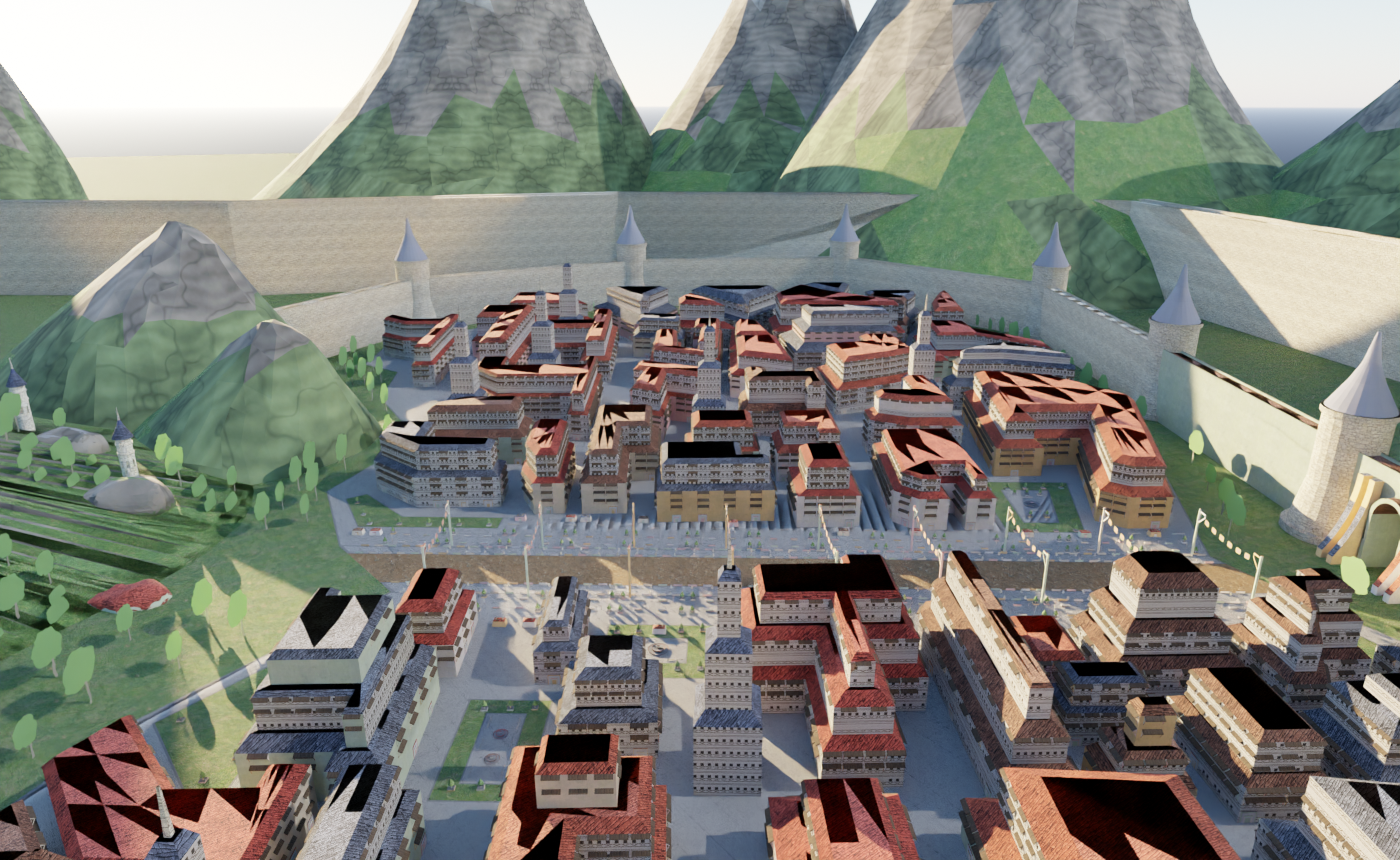
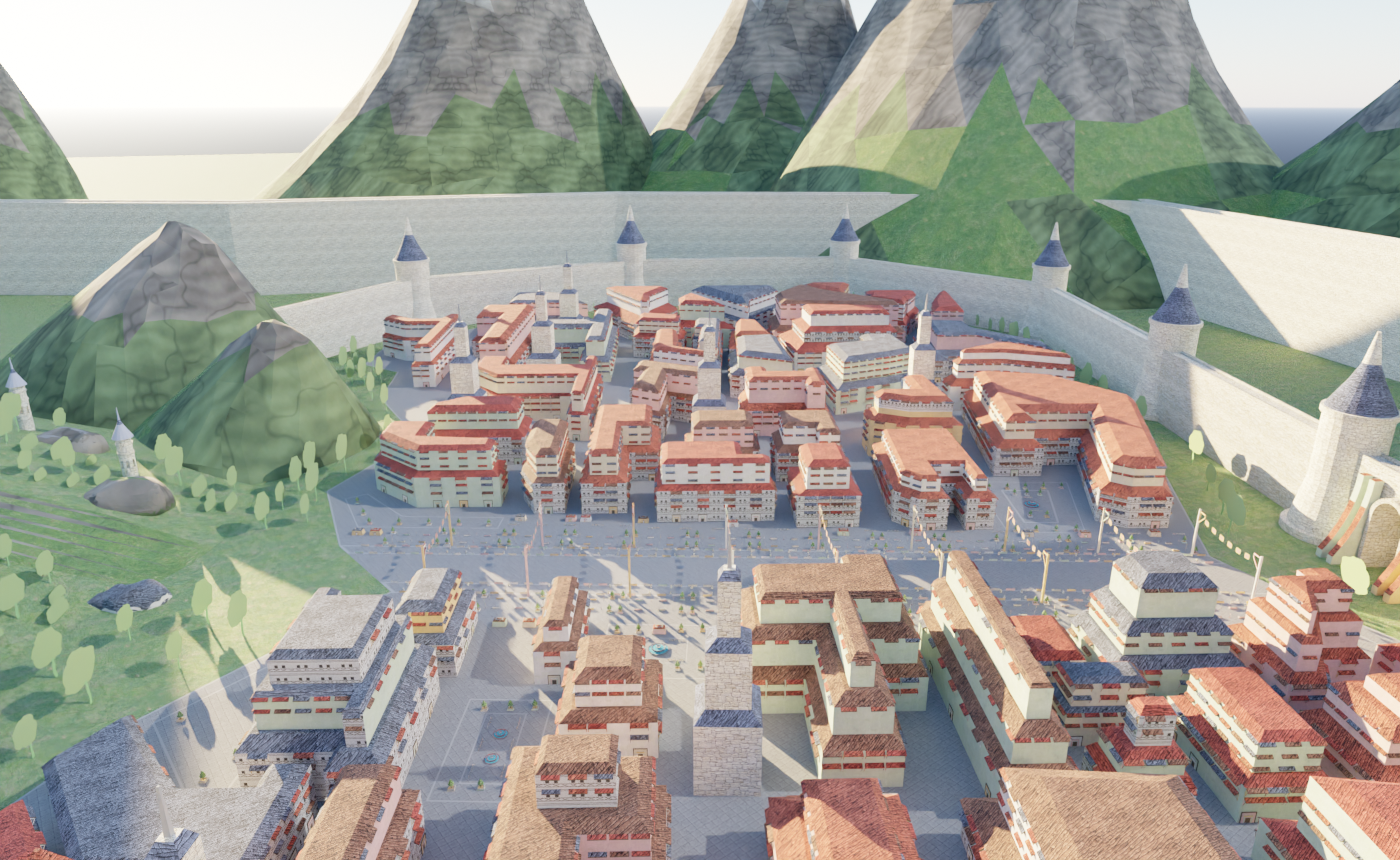
맵: 검은 지붕 수정 — 같은 자리에 두 벌 놓인 부품의 겹친 면 제거(약 23만 장), 평면 나무는 양면 유지
Claude-Session: https://claude.ai/code/session_016KYYKotjwGKutMnKopxMmp

diff --git a/moomin-action/blender/build_map.py b/moomin-action/blender/build_map.py
@@ -215,9 +215,9 @@ write_report()
 
 # ── 4. 합치기·단위·위치 ───────────────────────────────
 # bpy.ops.object.join 은 물체 2만 개에서 제곱으로 느려져서, 정점·면·UV·재질 번호를 numpy 로 모아 새 메시를 직접 만든다.
-GAME = bpy.data.scenes.new("Game"); S = args.scale
+GAME = bpy.data.scenes.new("Game"); S = args.scale; DUP = {}
 Tm = np.array(Matrix.Diagonal((S, S, S, 1)) @ Matrix.Translation((-CENTER[0], -CENTER[1], -GROUND_Z)))
-def merge(objs, name, with_mats=True):
+def merge(objs, name, with_mats=True, double_sided=False):
     cos, lvs, lts, uvs, fms = [], [], [], [], []; voff = 0
     for o in objs:
         me = o.data; nv, nl, npy = len(me.vertices), len(me.loops), len(me.polygons)
@@ -232,6 +232,20 @@ def merge(objs, name, with_mats=True):
             ls = np.concatenate([[0], np.cumsum(lt)[:-1]]); idx = np.concatenate([np.arange(st + t - 1, st - 1, -1) for st, t in zip(ls, lt)]); lv, uv = lv[idx], uv[idx]
         cos.append(co); lvs.append(lv + voff); lts.append(lt); uvs.append(uv); fms.append(fm); voff += nv
     co, lv, lt, uv, fm = np.concatenate(cos), np.concatenate(lvs), np.concatenate(lts), np.concatenate(uvs), np.concatenate(fms)
+    # 겹친 면 제거: 원본에 같은 부품이 같은 자리에 두 벌씩 놓인 곳이 있어(그룹#115·#117 등) 같은 위치의 면이 두 장 →
+    # 렌더러에서는 서로 그림자를 드리워 검게, Unity 에서는 깜빡이는 줄무늬(z-fighting)로 보임. 꼭짓점 위치(5mm 단위)가 같은 면은 하나만 남김.
+    ls = np.concatenate([[0], np.cumsum(lt)[:-1]]); q = np.round(co / 0.005).astype(np.int64)
+    seen = set(); keep = np.ones(len(lt), bool)
+    for i in range(len(lt)):
+        key = tuple(sorted(map(tuple, q[lv[ls[i]:ls[i] + lt[i]]].tolist())))
+        if key in seen: keep[i] = False
+        else: seen.add(key)
+    if not keep.all():
+        lkeep = np.repeat(keep, lt); lv, uv, lt, fm = lv[lkeep], uv[lkeep], lt[keep], fm[keep]
+    DUP[name] = int((~keep).sum())
+    if double_sided:   # 평면 나무: 겹친 앞뒷면을 지웠으니 뒤집은 사본을 붙여 확실한 양면으로(Unity 는 뒷면을 그리지 않음)
+        ls = np.concatenate([[0], np.cumsum(lt)[:-1]]); idx = np.concatenate([np.arange(st + t - 1, st - 1, -1) for st, t in zip(ls, lt)])
+        lv, uv, lt, fm = np.concatenate([lv, lv[idx]]), np.concatenate([uv, uv[idx]]), np.concatenate([lt, lt]), np.concatenate([fm, fm])
     me = bpy.data.meshes.new(name); me.vertices.add(len(co)); me.vertices.foreach_set("co", co.ravel())
     me.loops.add(len(lv)); me.loops.foreach_set("vertex_index", lv); me.polygons.add(len(lt)); me.polygons.foreach_set("loop_start", np.concatenate([[0], np.cumsum(lt)[:-1]]).astype(np.int32))
     me.update(calc_edges=True); uvl = me.uv_layers.new(name="UVMap"); uvl.data.foreach_set("uv", uv.ravel())
@@ -242,9 +256,9 @@ def merge(objs, name, with_mats=True):
 fol = [o for o in meshes if cats.get(o.name) == "foliage"]; rest = [o for o in meshes if cats.get(o.name) != "foliage"]
 def diag(o):
     ws = [o.matrix_world @ Vector(c) for c in o.bound_box]; return (Vector((max(w.x for w in ws), max(w.y for w in ws), max(w.z for w in ws))) - Vector((min(w.x for w in ws), min(w.y for w in ws), min(w.z for w in ws)))).length
-city = merge(rest, "City"); foliage = merge(fol, "Foliage") if fol else None
+city = merge(rest, "City"); foliage = merge(fol, "Foliage", double_sided=True) if fol else None
 collision = merge([o for o in rest if diag(o) >= 30], "City_Collision", with_mats=False)   # 작은 장식(대각 30단위 미만)·나무 제외
-log("합침", len(city.data.polygons), "면 / 나무", len(foliage.data.polygons) if foliage else 0, "/ 충돌", len(collision.data.polygons))
+log("합침", len(city.data.polygons), "면 / 나무", len(foliage.data.polygons) if foliage else 0, "/ 충돌", len(collision.data.polygons), "/ 겹친 면 제거", DUP)
 
 # ── 5. 상자 투영 UV(월드 좌표, 미터 기준 반복 크기) ─────
 me = city.data

diff --git a/moomin-action/CLAUDE.md b/moomin-action/CLAUDE.md
@@ -44,5 +44,7 @@ Blender(bpy 5.3, headless) → FBX/GLB → Unity(C#) 파이프라인. 민미로 
 ## 맵(blender/build_map.py)
 - 원본 GLB(SketchUp→openskp→Blender): 맨 위 계층 + 메시 공유 = 부품 원본 → 삭제. 1단위 = 0.14m, 바닥 z=-51 → 0.
 - 순서: 분석(형태: 수직 벽 비율·축 정렬 비율로 산/언덕 ↔ 건물) → 질감(면 종류·텍스처·상자 투영 UV) → 채색(산 높이별, 집마다 벽 5색·지붕 4색, 성은 석재+슬레이트).
+- 겹친 면: 원본에 같은 부품이 같은 자리에 두 벌(예: 그룹#115·#117)씩 있어 같은 위치 면이 2장 → 검게(렌더)/깜빡임(Unity). merge() 에서 꼭짓점 위치(5mm) 같은 면 하나만 남김(City 약 23만 장 제거). 평면 나무는 제거 후 뒤집은 사본을 붙여 양면.
+- 면 방향: 수직이 아닌 면은 모두 위로(Unity 뒷면 컬링 대비).
 - 성능 함정: bpy.ops.make_single_user·object.join·mesh.materials.append 를 물체 2만 개에 쓰면 제곱으로 느림 → data.copy(), numpy 직접 합치기(merge), 재질 번호는 face 속성 "fmat" 에 저장 후 한 번에.
 - 면 방향: 수직이 아닌 면은 모두 위로(Unity 뒷면 컬링 대비). 남은 문제: 일부 평지붕이 어둡게 보임(원본 어두운 재질 추정, 미확인).
